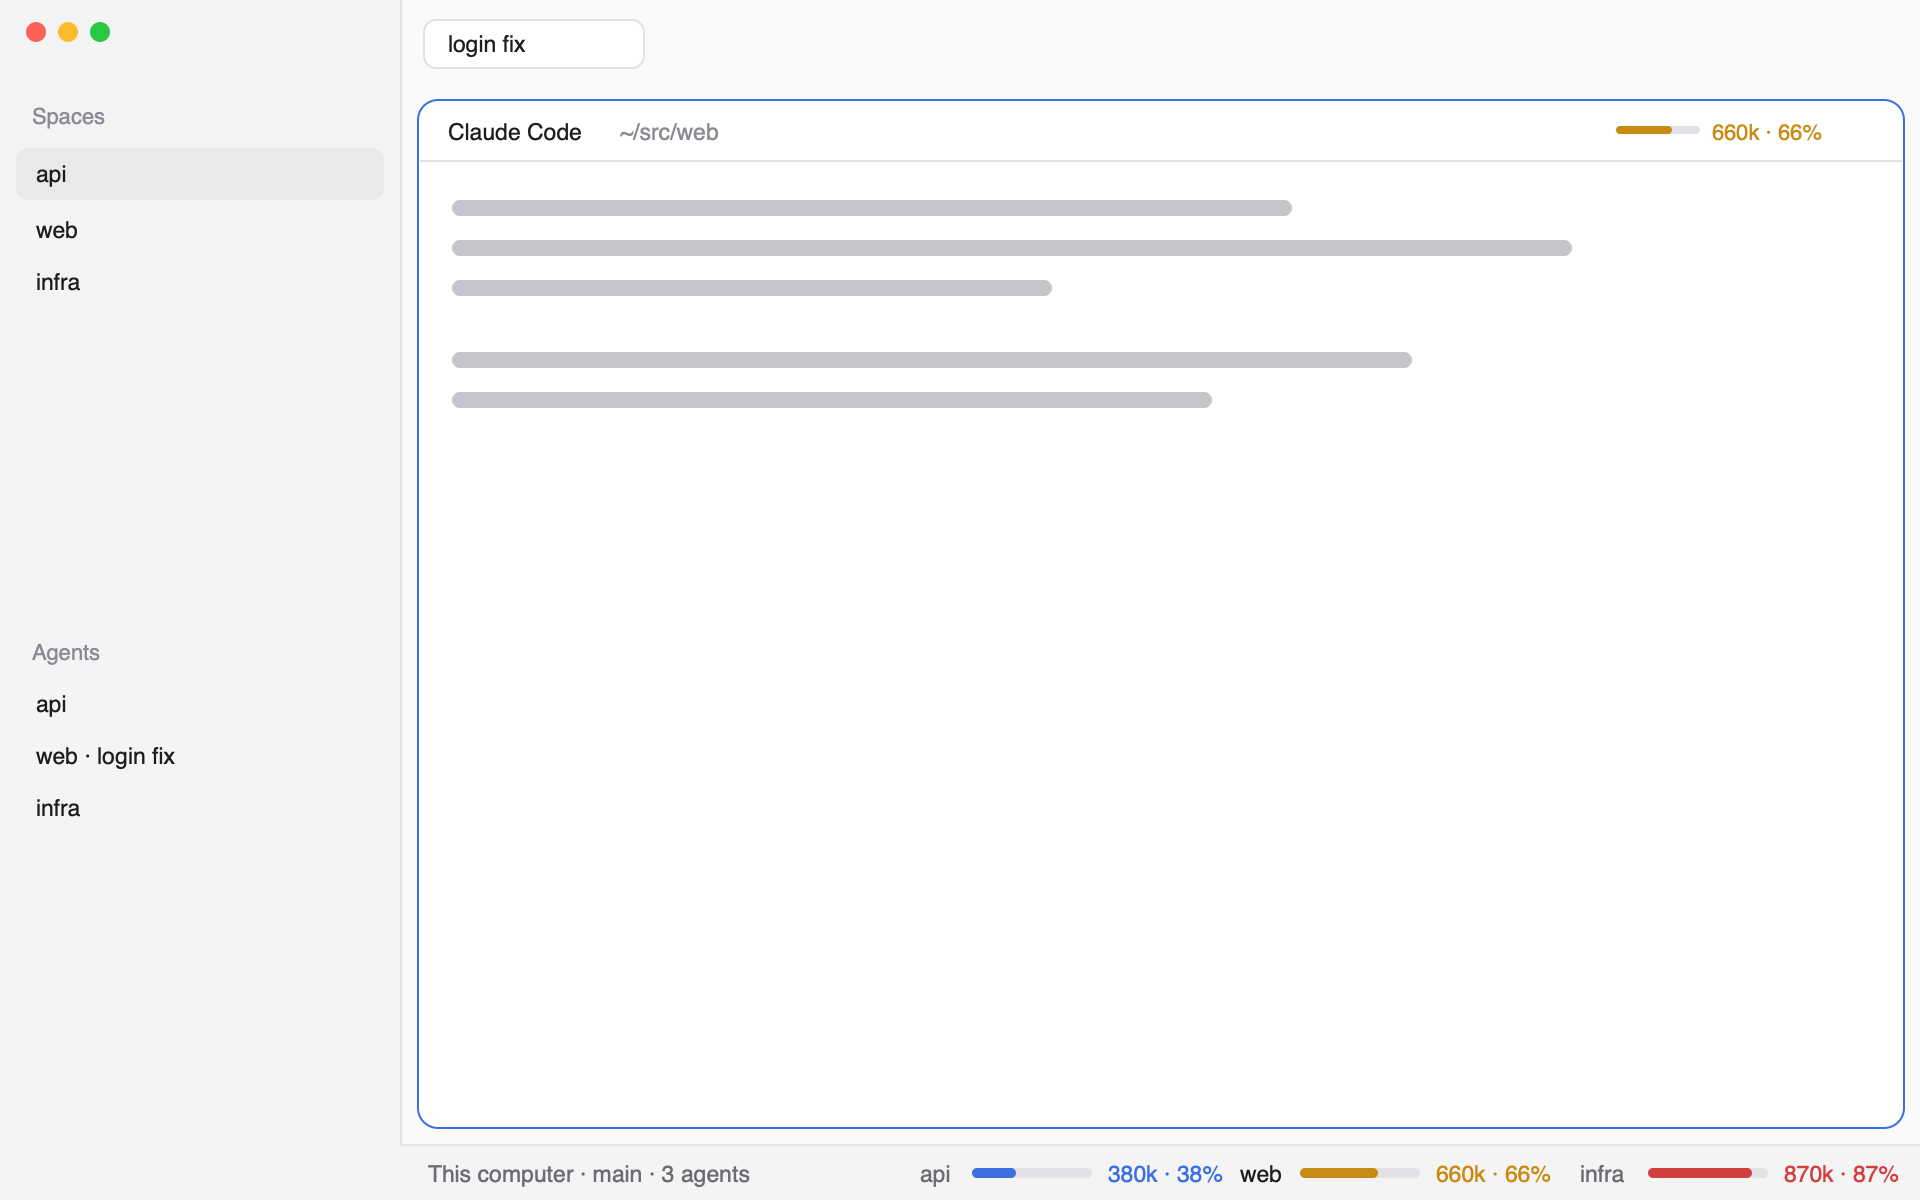
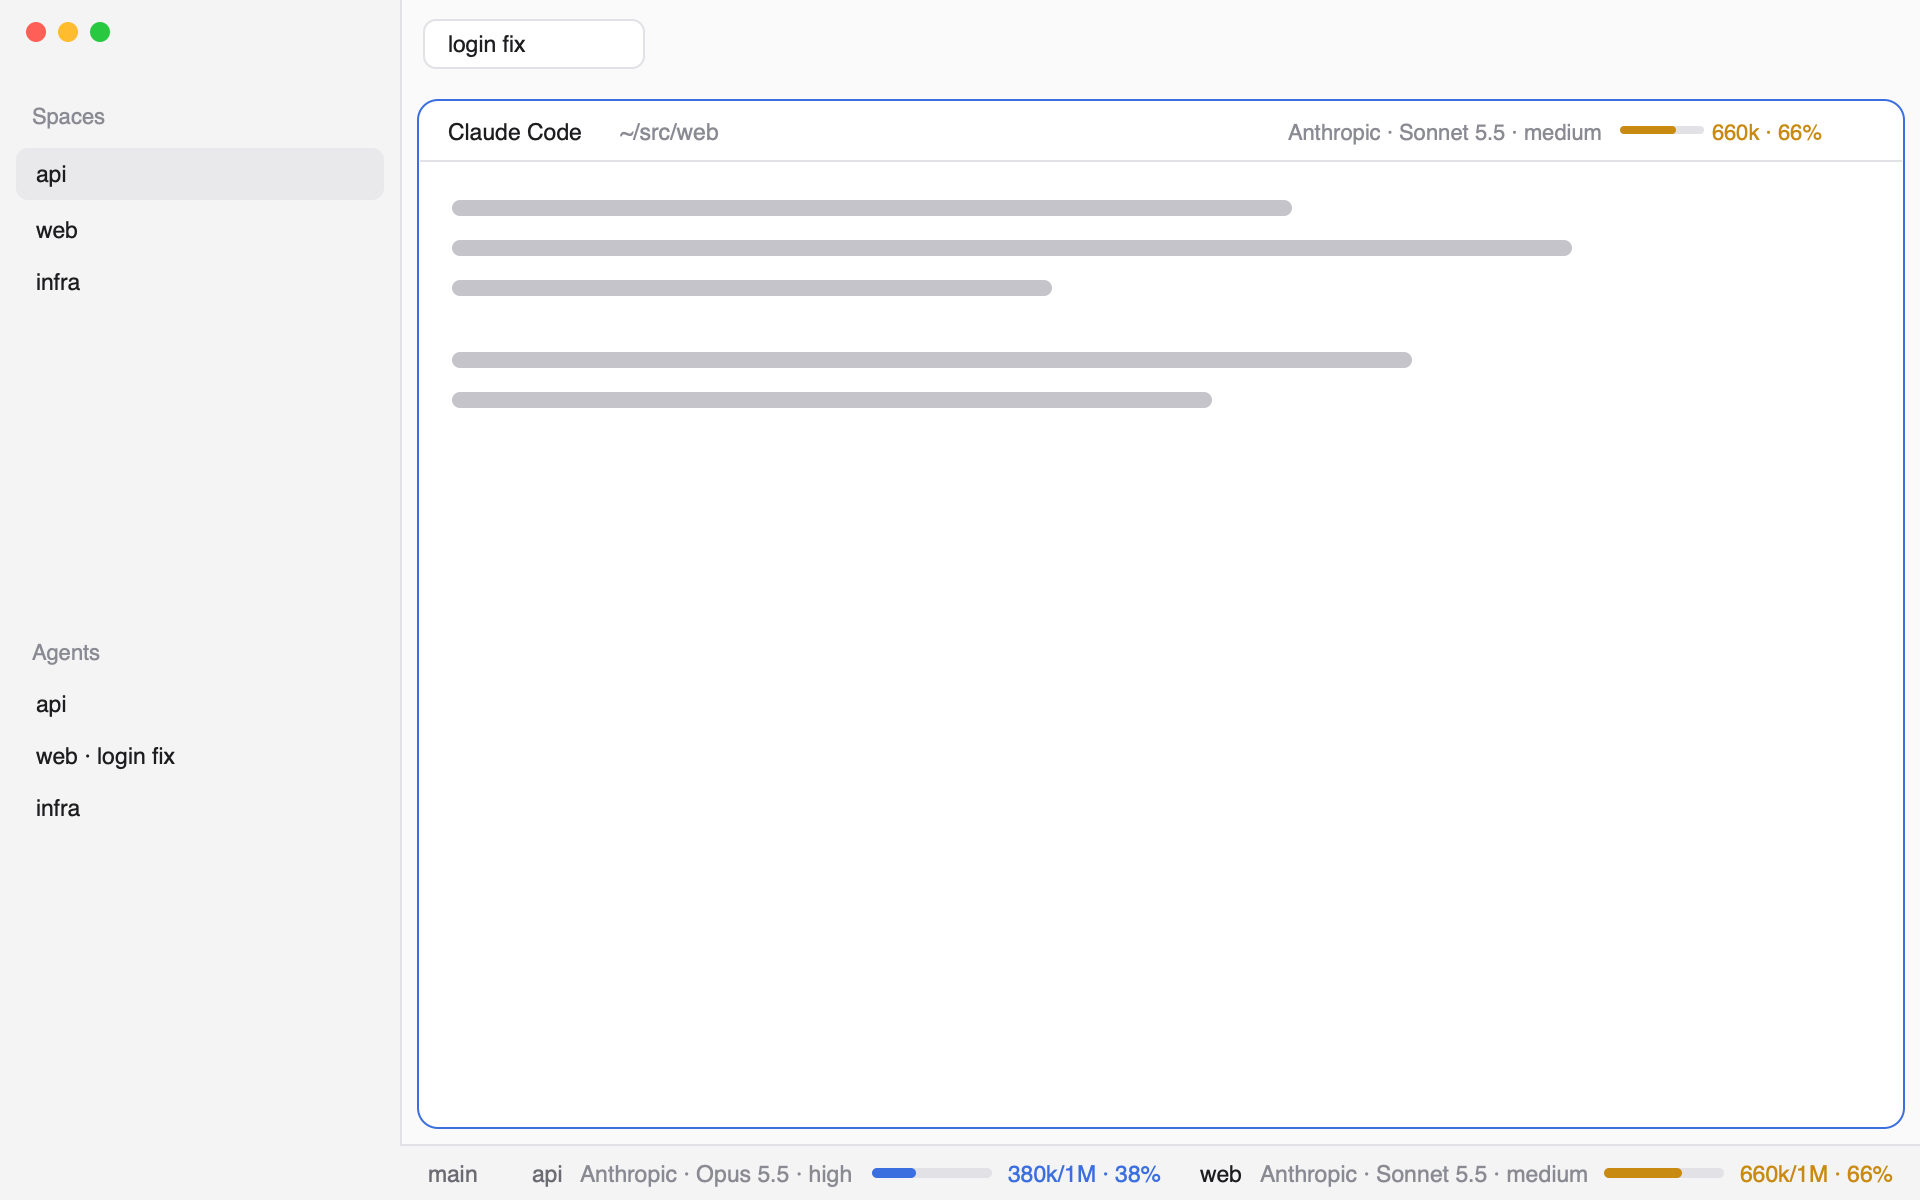
Show provider, model and effort for each Claude Code session

Changed region(s): [[0.2188, 0.9558, 1.0, 0.9867], [0.6562, 0.0925, 0.8438, 0.1233]]

diff --git a/layouts/herdr-context/mods/context/main.js b/layouts/herdr-context/mods/context/main.js
@@ -1,6 +1,7 @@
 // Context used by each Claude Code agent, read from its transcript's last `usage`.
 // props: { window?: number } forces the context size (default: from the transcript's model).
-// Publishes shared("context.usage") = { address: { used, window, pct } } for other mods
+// Also shows the session's provider, model and effort (from the same transcript line).
+// Publishes shared("context.usage") = { address: { used, window, pct, provider, model, effort, fast } } for other mods
 // (the pane-context header), and posts a warning once an agent passes 80%.
 
 import { View, div } from "gpui-kit";
@@ -20,6 +21,27 @@ done
 // Sonnet/Opus 4.0-4.5) have 200k. Unknown ids above 200k used are taken as 1M.
 const MILLION = /fable|mythos|opus-5|opus-4-[678]|sonnet-5|sonnet-4-6|haiku-5/;
 const windowFor = (model, used) => (MILLION.test(model ?? "") || used > 200000 ? 1000000 : 200000);
+
+// The transcript names no provider: guess it from the model id and request id.
+// Bedrock ids carry an "anthropic." prefix or an ARN, older Vertex ids an "@date";
+// the Anthropic API returns "req_..." request ids. Anything else stays "?".
+function providerOf(model, requestId) {
+  if (/^arn:aws|(^|\.)anthropic\./.test(model ?? "")) return "Bedrock";
+  if ((model ?? "").includes("@")) return "Vertex";
+  if (/^req_/.test(requestId ?? "")) return "Anthropic";
+  return "?";
+}
+
+// "claude-opus-5-5" -> "Opus 5.5", "claude-haiku-4-5-20251001" -> "Haiku 4.5".
+function modelName(id) {
+  const m = /(opus|sonnet|haiku|fable|mythos)-(\d)(?:-(\d)(?!\d))?/.exec(id ?? "");
+  if (!m) return id ?? "?";
+  return m[1][0].toUpperCase() + m[1].slice(1) + " " + m[2] + (m[3] ? "." + m[3] : "");
+}
+
+// "Anthropic · Opus 5.5 · medium" (+ " · fast" in fast mode).
+const describe = (c) =>
+  [c.provider, c.model, c.effort, c.fast ? "fast" : null].filter(Boolean).join(" · ");
 
 const WARN = 80;   // warn at this %
 const REARM = 70;  // warn again only after dropping below this (e.g. after /compact)
@@ -48,12 +70,19 @@ export default class Context extends View {
           const r = await exec("sh", ["-c", SCRIPT, "sh", cwd], { on: machine, timeout: 4000 });
           const line = r.stdout.trim();
           if (!line) continue;
-          const msg = JSON.parse(line).message;
+          const entry = JSON.parse(line);
+          const msg = entry.message;
           const u = msg.usage;
           const used = (u.input_tokens ?? 0) + (u.cache_read_input_tokens ?? 0) + (u.cache_creation_input_tokens ?? 0);
           const window = fixed ?? windowFor(msg.model, used);
           const pct = Math.min(100, Math.round((100 * used) / window));
-          this.ctx[a.address] = { used, window, pct };
+          this.ctx[a.address] = {
+            used, window, pct,
+            provider: providerOf(msg.model, entry.requestId),
+            model: modelName(msg.model),
+            effort: entry.perTurnEffort ?? entry.effort ?? null,
+            fast: u.speed === "fast",
+          };
           this.warn(a, pct, used, window);
         } catch (_) { /* machine offline or line cut: keep the last value */ }
       }
@@ -95,10 +124,12 @@ export default class Context extends View {
       .text_size(11.5).text_color(t.muted)
       .when(list.length === 0, (el) => el.child(div().text_color(t.dim).child("Sin agentes Claude Code")))
       .children(list.map((a) => {
-        const { used, window, pct } = this.ctx[a.address];
+        const c = this.ctx[a.address];
+        const { used, window, pct } = c;
         return h_flex().id(`ctx-${a.address}`).gap(7).items_center().rounded(4).px(4)
           .hover((s) => s.bg(t.hover)).on_click(() => run("agent.focus", { terminal: a.address }))
           .child(div().text_color(a.focused ? t.foreground : t.muted).truncate().max_w(180).child(/^\d+$/.test(a.tab_name ?? "") ? a.space_name : `${a.space_name} · ${a.tab_name}`))
+          .child(div().text_color(t.dim).truncate().max_w(220).child(describe(c)))
           .child(bar(pct))
           .child(div().text_color(pct >= 80 ? t.blocked : t.dim).child(`${short(used)}/${short(window)} · ${pct}%`));
       }));

diff --git a/mods/context/mods/context/main.js b/mods/context/mods/context/main.js
@@ -1,6 +1,7 @@
 // Context used by each Claude Code agent, read from its transcript's last `usage`.
 // props: { window?: number } forces the context size (default: from the transcript's model).
-// Publishes shared("context.usage") = { address: { used, window, pct } } for other mods
+// Also shows the session's provider, model and effort (from the same transcript line).
+// Publishes shared("context.usage") = { address: { used, window, pct, provider, model, effort, fast } } for other mods
 // (the pane-context header), and posts a warning once an agent passes 80%.
 
 import { View, div } from "gpui-kit";
@@ -20,6 +21,27 @@ done
 // Sonnet/Opus 4.0-4.5) have 200k. Unknown ids above 200k used are taken as 1M.
 const MILLION = /fable|mythos|opus-5|opus-4-[678]|sonnet-5|sonnet-4-6|haiku-5/;
 const windowFor = (model, used) => (MILLION.test(model ?? "") || used > 200000 ? 1000000 : 200000);
+
+// The transcript names no provider: guess it from the model id and request id.
+// Bedrock ids carry an "anthropic." prefix or an ARN, older Vertex ids an "@date";
+// the Anthropic API returns "req_..." request ids. Anything else stays "?".
+function providerOf(model, requestId) {
+  if (/^arn:aws|(^|\.)anthropic\./.test(model ?? "")) return "Bedrock";
+  if ((model ?? "").includes("@")) return "Vertex";
+  if (/^req_/.test(requestId ?? "")) return "Anthropic";
+  return "?";
+}
+
+// "claude-opus-5-5" -> "Opus 5.5", "claude-haiku-4-5-20251001" -> "Haiku 4.5".
+function modelName(id) {
+  const m = /(opus|sonnet|haiku|fable|mythos)-(\d)(?:-(\d)(?!\d))?/.exec(id ?? "");
+  if (!m) return id ?? "?";
+  return m[1][0].toUpperCase() + m[1].slice(1) + " " + m[2] + (m[3] ? "." + m[3] : "");
+}
+
+// "Anthropic · Opus 5.5 · medium" (+ " · fast" in fast mode).
+const describe = (c) =>
+  [c.provider, c.model, c.effort, c.fast ? "fast" : null].filter(Boolean).join(" · ");
 
 const WARN = 80;   // warn at this %
 const REARM = 70;  // warn again only after dropping below this (e.g. after /compact)
@@ -48,12 +70,19 @@ export default class Context extends View {
           const r = await exec("sh", ["-c", SCRIPT, "sh", cwd], { on: machine, timeout: 4000 });
           const line = r.stdout.trim();
           if (!line) continue;
-          const msg = JSON.parse(line).message;
+          const entry = JSON.parse(line);
+          const msg = entry.message;
           const u = msg.usage;
           const used = (u.input_tokens ?? 0) + (u.cache_read_input_tokens ?? 0) + (u.cache_creation_input_tokens ?? 0);
           const window = fixed ?? windowFor(msg.model, used);
           const pct = Math.min(100, Math.round((100 * used) / window));
-          this.ctx[a.address] = { used, window, pct };
+          this.ctx[a.address] = {
+            used, window, pct,
+            provider: providerOf(msg.model, entry.requestId),
+            model: modelName(msg.model),
+            effort: entry.perTurnEffort ?? entry.effort ?? null,
+            fast: u.speed === "fast",
+          };
           this.warn(a, pct, used, window);
         } catch (_) { /* machine offline or line cut: keep the last value */ }
       }
@@ -95,10 +124,12 @@ export default class Context extends View {
       .text_size(11.5).text_color(t.muted)
       .when(list.length === 0, (el) => el.child(div().text_color(t.dim).child("Sin agentes Claude Code")))
       .children(list.map((a) => {
-        const { used, window, pct } = this.ctx[a.address];
+        const c = this.ctx[a.address];
+        const { used, window, pct } = c;
         return h_flex().id(`ctx-${a.address}`).gap(7).items_center().rounded(4).px(4)
           .hover((s) => s.bg(t.hover)).on_click(() => run("agent.focus", { terminal: a.address }))
           .child(div().text_color(a.focused ? t.foreground : t.muted).truncate().max_w(180).child(/^\d+$/.test(a.tab_name ?? "") ? a.space_name : `${a.space_name} · ${a.tab_name}`))
+          .child(div().text_color(t.dim).truncate().max_w(220).child(describe(c)))
           .child(bar(pct))
           .child(div().text_color(pct >= 80 ? t.blocked : t.dim).child(`${short(used)}/${short(window)} · ${pct}%`));
       }));

diff --git a/layouts/herdr-context/mods/pane-context/main.js b/layouts/herdr-context/mods/pane-context/main.js
@@ -38,10 +38,11 @@ function folder(cwd) {
 
 const short = (n) => (n >= 1e6 ? +(n / 1e6).toFixed(1) + "M" : Math.round(n / 1000) + "k");
 
-// A small bar and "106k · 53%", colored by how full it is.
+// "Anthropic · Opus 5.5 · medium", then a small bar and "106k · 53%", colored by how full it is.
 function contextChip(t, c) {
   const color = c.pct >= 80 ? t.blocked : c.pct >= 60 ? t.working : t.done;
   return h_flex().flex_none().gap(6).items_center().text_size(11).text_color(c.pct >= 80 ? t.blocked : t.dim)
+    .child(div().truncate().max_w(240).child([c.provider, c.model, c.effort, c.fast ? "fast" : null].filter(Boolean).join(" · ")))
     .child(div().w(42).h(4).rounded(2).bg(t.border)
       .child(div().h_full().rounded(2).bg(color).w(Math.max(2, Math.round((42 * c.pct) / 100)))))
     .child(`${short(c.used)} · ${c.pct}%`);

diff --git a/mods/context/RECIPE.md b/mods/context/RECIPE.md
@@ -1,6 +1,6 @@
 # Context
 
-A slim bar that shows how much of its context window each Claude Code agent has used, on this computer and on remote machines. When an agent passes 80%, a toast tells you to compact.
+A slim bar that shows, for each Claude Code agent, its provider, model and effort and how much of its context window it has used, on this computer and on remote machines. When an agent passes 80%, a toast tells you to compact.
 
 ![Context](preview.png)
 
@@ -9,6 +9,7 @@ A slim bar that shows how much of its context window each Claude Code agent has 
 - A 28px strip, theme `chrome` background, 1px `border` top line, 11.5px text in `muted`.
 - One entry per Claude Code agent, left to right in `agents()` order, 18px apart:
   - its label: the space name, plus `· <tab name>` when the tab was named (tabs still called by number show the space name only); `foreground` for the focused agent, `muted` otherwise, truncated at 180px;
+  - `Anthropic · Opus 5.5 · medium` in `dim` (provider · model · effort, plus `· fast` in fast mode), truncated at 220px;
   - a 60×5px rounded bar on `border`, filled in `done` below 60%, `working` from 60%, `blocked` from 80%;
   - `118k/1M · 12%` in `dim`, or in `blocked` from 80%.
 - With no Claude Code agents: `Sin agentes Claude Code` in `dim`.
@@ -20,19 +21,20 @@ A slim bar that shows how much of its context window each Claude Code agent has 
 - Context size comes from the transcript line's `message.model`: 1M for `fable`, `mythos`, `opus-5`, `opus-4-6/7/8`, `sonnet-5`, `sonnet-4-6`, `haiku-5`; 200k for anything else (Haiku 4.5, older models), unless usage is already above 200k. `props: { "window": 200000 }` forces a size.
 - Click an entry: `agent.focus` on that agent. Hover: `hover` background.
 - Crossing 80%: one `notify` with level `warning`, title `Contexto al N%`, and an action that focuses the agent. It fires again for that agent only after it drops below 70% (for example after `/compact`). Warned agents are kept in the copy's `localStorage`.
-- Publishes `shared("context.usage")` = `{ "<address>": { used, window, pct } }`, set only when it changes. Other mods can read it. For example, a clone of the shipped `pane` header can draw a 42px bar and `93k · 46%` for `props().terminal`.
+- Publishes `shared("context.usage")` = `{ "<address>": { used, window, pct, provider, model, effort, fast } }`, set only when it changes. Other mods can read it. For example, a clone of the shipped `pane` header can draw `Anthropic · Sonnet 5.5 · medium`, a 42px bar and `93k · 46%` for `props().terminal`.
 
 ## Built from
 
 - One mod, `mods/context/`. `mod.json` is `{ "place": "bottom", "size": 28 }`. Shipped layouts are read-only, so you can also place it yourself in a cloned layout: replace the `status` block with a `row` of 28px that holds `workspace-status` (weight 1) and `{ "mod": "context" }` (weight 1).
 - `herdr` functions it uses: `agents()`, `terminals()`, `panes()`, `spaces()`, `theme()`, `props()`, `run("agent.focus")`, `exec`, `notify`, `setShared`, `checking`.
-- It runs `sh` once per agent per refresh, with `on: space.machine`. The script turns the agent's folder into Claude Code's project slug (every non-alphanumeric character becomes `-`). It takes the newest `~/.claude/projects/<slug>/*.jsonl`, walking up to parent folders if none exists. It reads the last 400 lines, and keeps the last line that has `"role":"assistant"` and `"usage"` and is not `<synthetic>`. JSON parsing happens in the mod.
+- It runs `sh` once per agent per refresh, with `on: space.machine`. The script turns the agent's folder into Claude Code's project slug (every non-alphanumeric character becomes `-`). It takes the newest `~/.claude/projects/<slug>/*.jsonl`, walking up to parent folders if none exists. It reads the last 400 lines, and keeps the last line that has `"role":"assistant"` and `"usage"` and is not `<synthetic>`. JSON parsing happens in the mod. From the same line: `message.model` (shown as `Opus 5.5`), `perTurnEffort` or `effort`, `message.usage.speed` (`fast`), and `requestId`.
 - It reads files outside its folder (`~/.claude/projects`, on each machine) and runs programs (`sh`, `ls`, `tail`, `grep`, `sed`). It makes no network calls.
 
 ## Watch out
 
 - Use `panes()` for the agent's folder. `terminals()[i].cwd` can be the shell's starting folder (`/home/ubuntu`), not where Claude runs.
 - Two Claude sessions in the same folder show the same number: the newest transcript wins.
+- The transcript names no provider, so the mod guesses it: `Bedrock` for ids with an `anthropic.` prefix or an ARN, `Vertex` for ids with `@`, `Anthropic` for `req_…` request ids, and `?` otherwise. Vertex and Foundry sessions with bare model ids may show as `Anthropic`.
 - Claude Code only. Agents whose `app` is not `claude-code` (and whose program key is not `claude`) are skipped.
 - The window table is a regex over model ids: a new model family that is not 1M needs adding to it (or a `props.window`).
 - `herdr-app check` runs `init` for real: `if (checking()) return;` before starting the timer.
@@ -41,7 +43,7 @@ A slim bar that shows how much of its context window each Claude Code agent has 
 ## Done when
 
 - `herdr-app check mods/context` passes.
-- With a Claude Code agent running, the bar shows its label, a bar and `Nk/1M · N%`. The number matches the last `usage` line of its transcript.
+- With a Claude Code agent running, the bar shows its label, `Anthropic · <Model> · <effort>`, a bar and `Nk/1M · N%`. The number matches the last `usage` line of its transcript.
 - An agent on a remote machine shows its own value.
 - Clicking an entry focuses that agent.
 - Forcing `props.window` below current usage turns the bar `blocked` and posts one toast per agent. A second refresh posts nothing more.

diff --git a/layouts/herdr-context/RECIPE.md b/layouts/herdr-context/RECIPE.md
@@ -8,8 +8,8 @@ Herdr's default window, plus how much context each Claude Code agent has used: a
 
 The layout is a clone of Herdr's `main`. Only two things differ:
 
-- **Status bar** (28px, bottom of the work column): a `row` split in two equal halves. The left half is the shipped `workspace-status` (machine, branch, agents, palette hint). The right half is the `context` mod: per Claude Code agent, its label, a 60×5px bar and `118k/1M · 12%`. See `mods/context` in this repo for the full brief.
-- **Pane headers** (30px, top of each pane): `pane-context`, a clone of the shipped `pane` header. When the pane runs a Claude Code agent, it adds a 42×4px bar and `93k · 46%` (11px) on the right, before the status icon.
+- **Status bar** (28px, bottom of the work column): a `row` split 1:2. The left third is the shipped `workspace-status` (machine, branch, agents, palette hint). The right two thirds is the `context` mod: per Claude Code agent, its label, `provider · model · effort`, a 60×5px bar and `118k/1M · 12%`. See `mods/context` in this repo for the full brief.
+- **Pane headers** (30px, top of each pane): `pane-context`, a clone of the shipped `pane` header. When the pane runs a Claude Code agent, it adds `Anthropic · Sonnet 5.5 · medium`, a 42×4px bar and `93k · 46%` (11px) on the right, before the status icon.
 
 Bar and text colors: `done` below 60%, `working` from 60%, `blocked` from 80%.
 
@@ -22,8 +22,8 @@ Bar and text colors: `done` below 60%, `working` from 60%, `blocked` from 80%.
 
 ## Built from
 
-- `layouts/herdr-context.json`: `main`'s tree. The `status` block is replaced by `status-row` (`row`, 28px, `resizable: false`), whose children are `status` (`workspace-status`, weight 1) and `context` (`context`, weight 1). The tab block's `pane.header.content.mod` is `pane-context`. `preview` is `layouts/herdr-context.svg`.
-- `mods/context`: reads `~/.claude/projects/<slug>/*.jsonl` with `exec("sh", …, { on: space.machine })`, posts `notify`, and publishes `shared("context.usage")` = `{ address: { used, window, pct } }`.
+- `layouts/herdr-context.json`: `main`'s tree. The `status` block is replaced by `status-row` (`row`, 28px, `resizable: false`), whose children are `status` (`workspace-status`, weight 1) and `context` (`context`, weight 2). The tab block's `pane.header.content.mod` is `pane-context`. `preview` is `layouts/herdr-context.svg`.
+- `mods/context`: reads `~/.claude/projects/<slug>/*.jsonl` with `exec("sh", …, { on: space.machine })`, posts `notify`, and publishes `shared("context.usage")` = `{ address: { used, window, pct, provider, model, effort, fast } }`.
 - `mods/pane-context`: the shipped `pane` mod plus `shared` and a `contextChip(theme, usage)` helper. It reads `shared("context.usage")[props().terminal]` and runs nothing itself.
 - The shipped mods it uses as they are: `workspace-chrome`, `spaces`, `agents`, `tabs`, `files`, `changes`, `workspace-status`.
 
@@ -39,4 +39,4 @@ Bar and text colors: `done` below 60%, `working` from 60%, `blocked` from 80%.
 - `herdr-app check` passes for `mods/context` and `mods/pane-context`. `layout.switch {"name":"herdr-context"}` shows the window with no `layout.error`.
 - A Claude Code pane's header shows `Nk · N%`, and the status bar shows the same number for that agent.
 - A shell pane's header shows no meter.
-- The status bar's left half still shows `workspace-status`.
+- The status bar's left third still shows `workspace-status`.
